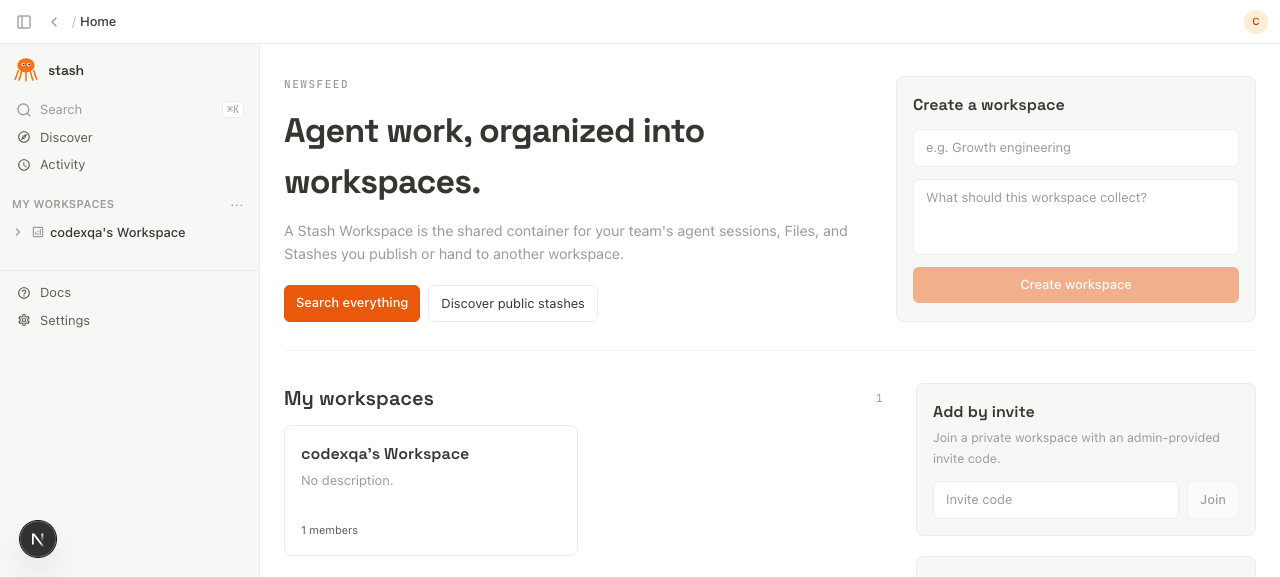
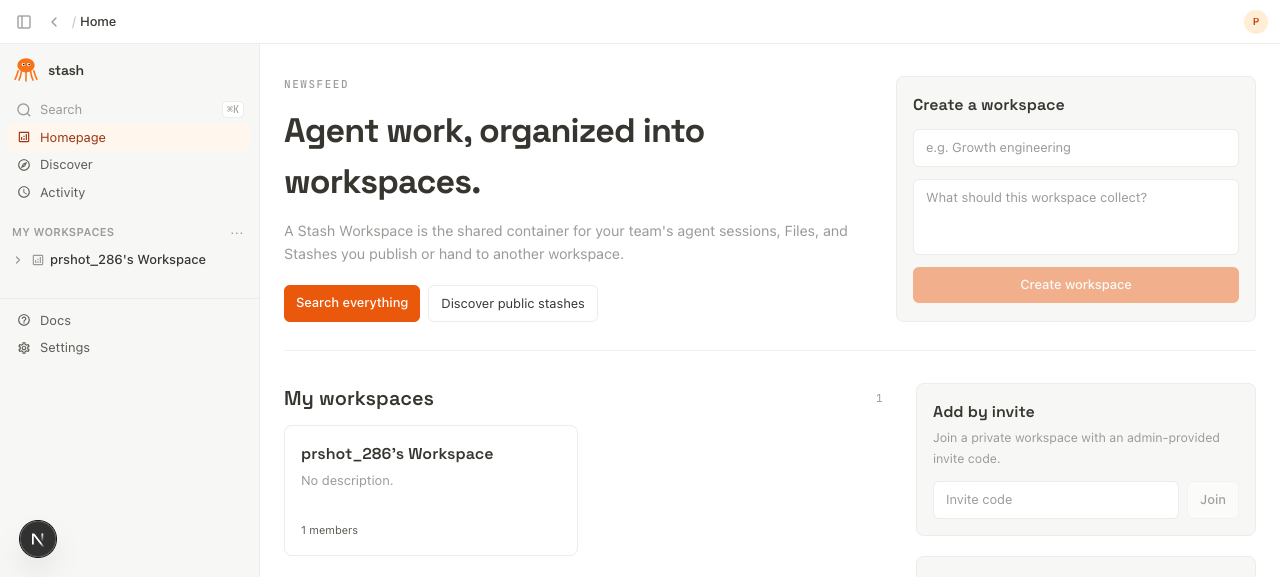
Add homepage sidebar entry

diff --git a/frontend/src/components/AppSidebar.tsx b/frontend/src/components/AppSidebar.tsx
@@ -806,6 +806,12 @@ export default function AppSidebar({ user, onCmdkOpen }: AppSidebarProps) {
           </span>
         </button>
         <NavRow
+          href="/"
+          icon={<StashIcon />}
+          label="Homepage"
+          active={pathname === "/"}
+        />
+        <NavRow
           href="/discover"
           icon={<DiscoverIcon />}
           label="Discover"